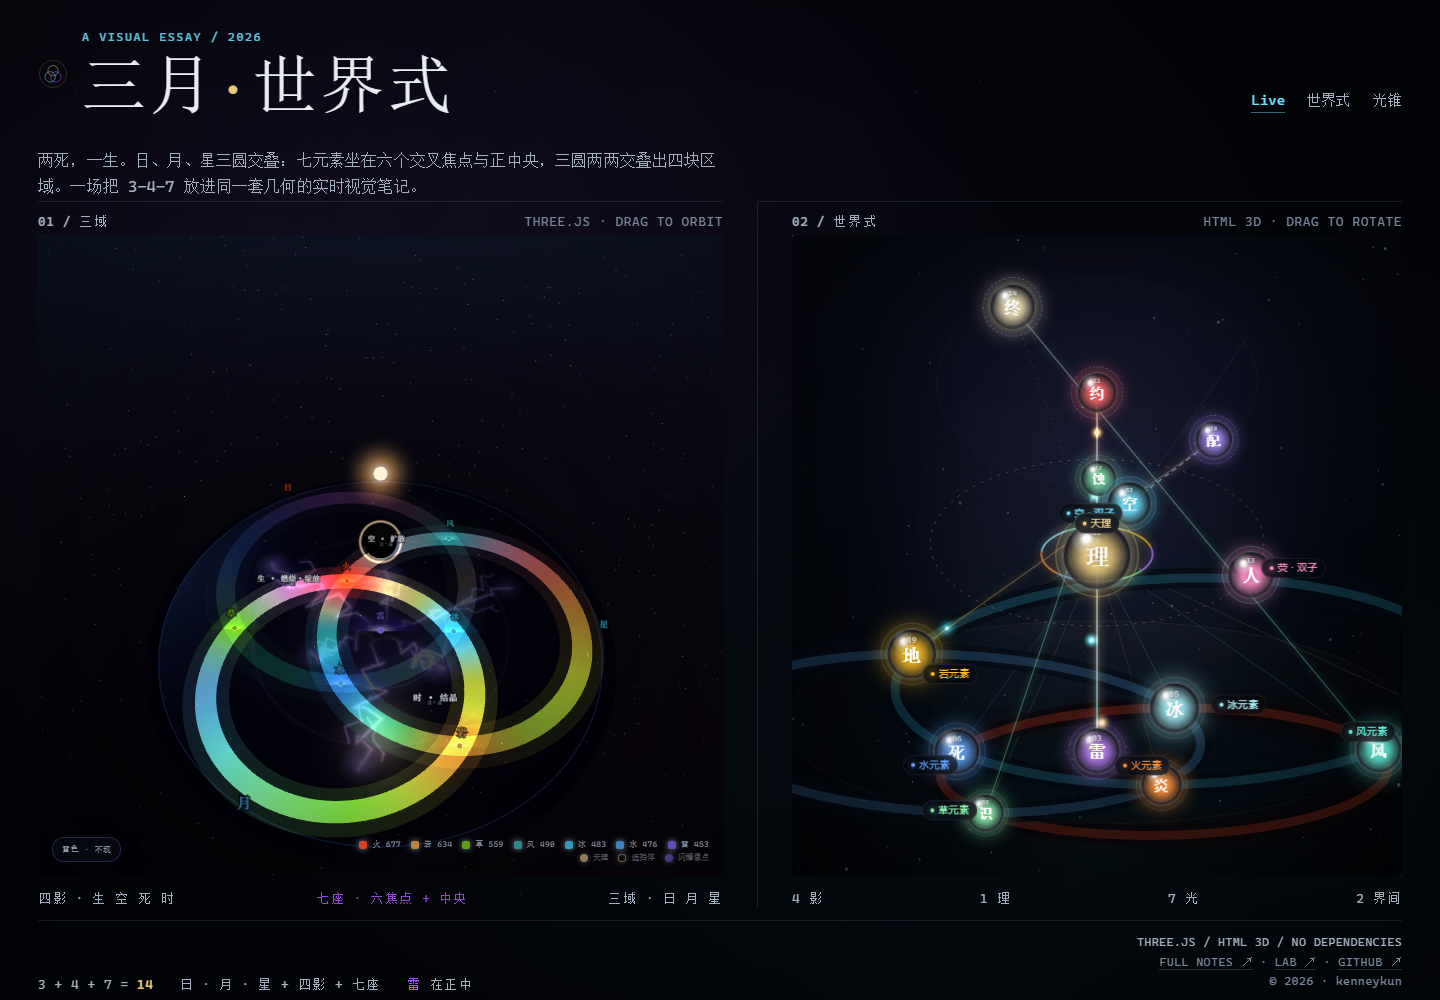
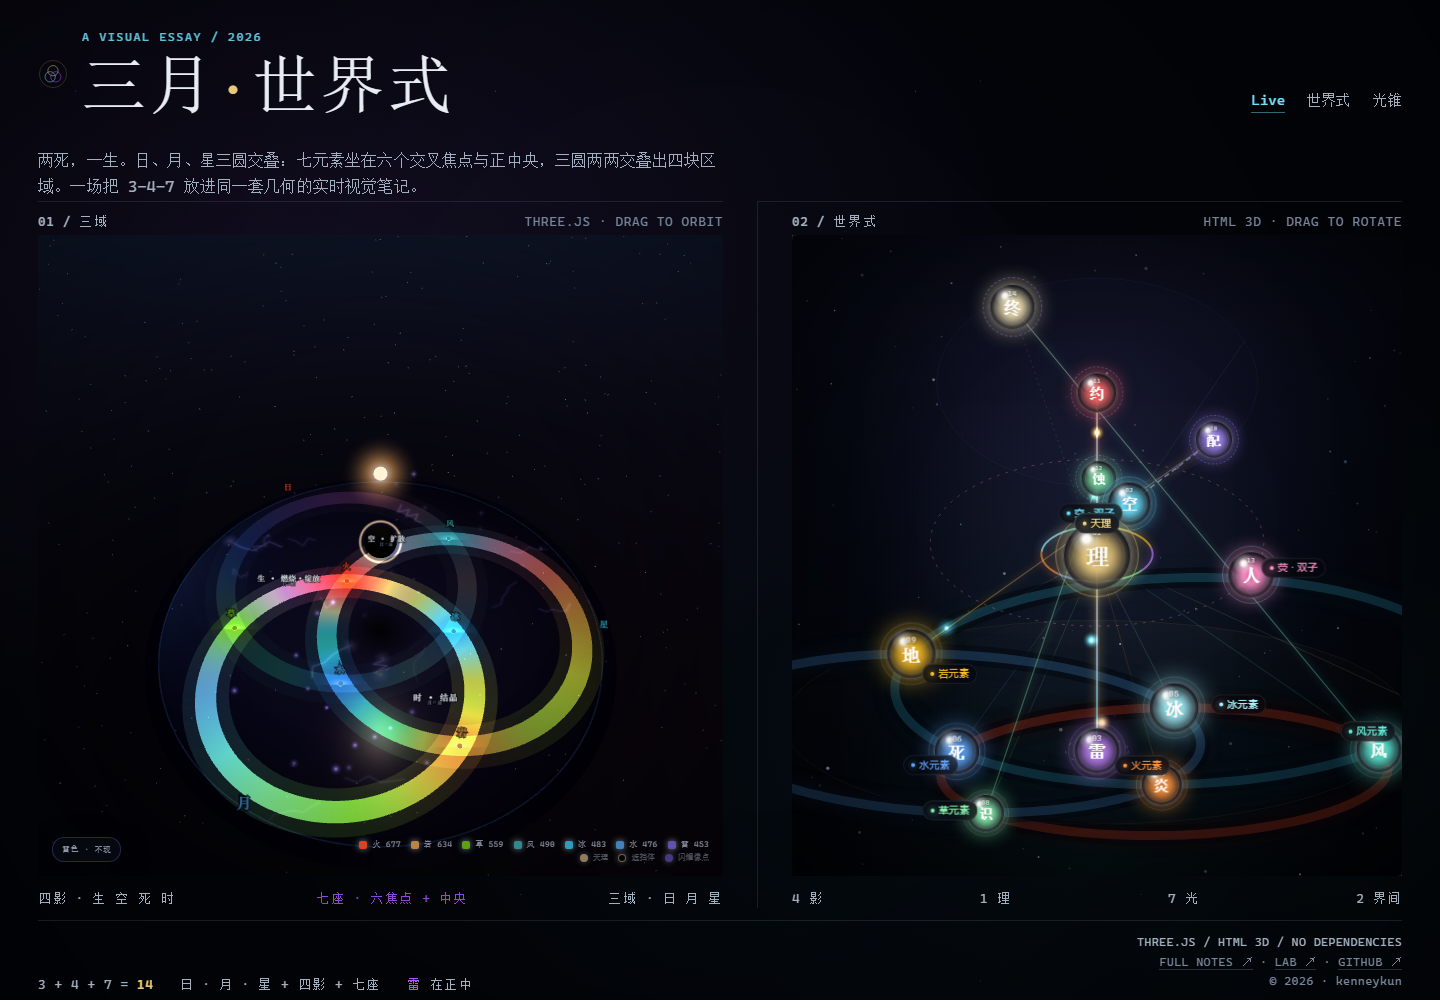
Make the plate a field of static instead of a hub of spokes
Electro does not sit in the middle of anything, so the radial bolts were the wrong metaphor. The centre marker and its label are gone, the six remaining seats keep their focal positions, and the plate now carries ambient static: sixteen short jagged arcs appear at random spots each frame with flicker, occasional spark heads, and a faint charged mist underneath.

Charged motes drift above the plate on slow orbits, brightening and dimming. The sidebar note, HUD line and README all switch from seven seats to six seats plus an electro medium, including the reasoning line: electro reacts with everything, so it is the medium rather than a seat, and eternity being closest to the heavenly principle explains why electro is that medium.

diff --git a/docs/prism_three_planb.html b/docs/prism_three_planb.html
@@ -441,7 +441,7 @@
       <button class="btn" id="reset" type="button">重置视角</button>
     </section>
 
-    <p class="note">三圆 = 日 / 月 / 星三域；七元素各占一个<b>交叉焦点</b>（六边形 60° 一个），<b>雷</b>在正中。<br>四影：<b>生</b> 日∩月 燃烧·绽放 · <b>空</b> 日∩星 扩散 · <b>死</b> 日∩月∩星 超载·感电·超导 · <b>时</b> 月∩星 结晶。</p>
+    <p class="note">三圆 = 日 / 月 / 星三域；六个元素各占一个<b>交叉焦点</b>（六边形 60° 一个）。<b>雷</b>不在座位上——它能和任何元素反应，所以它是<b>盘面本身</b>：一层始终存在的静电。<br>四影：<b>生</b> 日∩月 燃烧·绽放 · <b>空</b> 日∩星 扩散 · <b>死</b> 中央 超载·感电·超导 · <b>时</b> 月∩星 结晶。</p>
 
     <details class="adv">
       <summary>已退役控件</summary>
@@ -4825,34 +4825,15 @@ window.M3 = {
   boltPlate.renderOrder = -3;   // 环和座位都画在它上面，电感从盘底透出来
   scene.add(boltPlate);
 
-  const BOLT_SEATS = SEATS.filter((s) => s.key !== 'thunder');
   let boltClock = -1;
-  function boltPath(g, x1, y1, x2, y2, time, seed, amp, steps, width, alpha) {
-    g.beginPath();
-    g.moveTo(x1, y1);
-    for (let k = 1; k <= steps; k++) {
-      const u = k / steps;
-      const taper = 1 - Math.abs(u - 0.55) * 1.2;
-      const jx = (Math.sin(time * 7.1 + seed * 3.3 + k * 2.1) * 0.6 + Math.sin(time * 13.7 + k * 1.9 + seed)) * amp * taper;
-      const jy = (Math.cos(time * 6.3 + seed * 2.1 + k * 1.7) * 0.6 + Math.cos(time * 11.3 + k * 2.3 + seed)) * amp * taper;
-      g.lineTo(x1 + (x2 - x1) * u + jx, y1 + (y2 - y1) * u + jy);
-    }
-    g.strokeStyle = `rgba(150,120,255,${0.55 * alpha})`;
-    g.lineWidth = width * 2.4;
-    g.shadowColor = 'rgba(130,100,255,.95)';
-    g.shadowBlur = 26;
-    g.stroke();
-    g.strokeStyle = `rgba(196,172,255,${0.88 * alpha})`;
-    g.lineWidth = width;
-    g.shadowBlur = 12;
-    g.stroke();
-    g.strokeStyle = `rgba(244,240,255,${1.0 * alpha})`;
-    g.lineWidth = Math.max(1, width * 0.42);
-    g.shadowBlur = 5;
-    g.stroke();
-  }
 
-  function drawBolts(time) {
+  const hash01 = (n) => {
+    const x = Math.sin(n * 12.9898) * 43758.5453;
+    return x - Math.floor(x);
+  };
+
+  // 全局静电：盘面上随机的短促电弧 + 一层电雾，没有中心、没有放射方向
+  function drawStatic(time) {
     const g = boltCtx;
     const W = boltCanvas.width;
     const cxp = W / 2;
@@ -4862,63 +4843,84 @@ window.M3 = {
     g.lineCap = 'round';
     g.lineJoin = 'round';
 
-    // 中央电场
-    const core = g.createRadialGradient(cxp, cyp, 0, cxp, cyp, rp * 0.5);
-    core.addColorStop(0, 'rgba(172,142,255,0.34)');
-    core.addColorStop(0.34, 'rgba(108,86,200,0.15)');
-    core.addColorStop(1, 'rgba(58,38,116,0)');
-    g.fillStyle = core;
+    // 整体带电的薄雾
+    const wash = g.createRadialGradient(cxp, cyp, rp * 0.12, cxp, cyp, rp);
+    wash.addColorStop(0, 'rgba(112,92,196,0.16)');
+    wash.addColorStop(0.55, 'rgba(96,80,180,0.10)');
+    wash.addColorStop(1, 'rgba(70,56,140,0.02)');
+    g.fillStyle = wash;
     g.beginPath();
-    g.arc(cxp, cyp, rp * 0.5, 0, Math.PI * 2);
+    g.arc(cxp, cyp, rp, 0, Math.PI * 2);
     g.fill();
 
-    // 由中心向外扩散的脉冲环（三道错相）
-    for (let r = 0; r < 3; r++) {
-      const u = (time * 0.34 + r / 3) % 1;
-      const rad = rp * (0.10 + u * 0.86);
-      const a = (1 - u) * 0.26;
+    const slot = Math.floor(time * 9);          // 电弧按 9fps 换位，保留一点粘滞感
+    const ARC_N = 16;
+    for (let i = 0; i < ARC_N; i++) {
+      const s = slot + i * 17.31;
+      const ang = hash01(s * 1.13) * Math.PI * 2;
+      const rr = Math.sqrt(hash01(s * 2.71)) * rp * 0.94;
+      const cx0 = cxp + Math.cos(ang) * rr;
+      const cy0 = cyp + Math.sin(ang) * rr;
+      const len = 16 + hash01(s * 3.37) * 74;
+      const dir = hash01(s * 5.91) * Math.PI * 2;
+      const life = hash01(s * 0.73);
+      const flick = 0.25 + 0.75 * Math.abs(Math.sin(time * 9 + i * 2.1));
+      const alpha = (0.18 + 0.5 * life) * flick;
+      const steps = 4 + Math.floor(hash01(s * 7.7) * 3);
+
       g.beginPath();
-      g.arc(cxp, cyp, rad, 0, Math.PI * 2);
-      g.strokeStyle = `rgba(168,140,255,${a * 1.5})`;
-      g.lineWidth = 2 + (1 - u) * 3;
-      g.shadowColor = 'rgba(130,100,255,.85)';
-      g.shadowBlur = 22;
-      g.stroke();
-    }
-
-    BOLT_SEATS.forEach((s, i) => {
-      const flick = 0.45 + 0.55 * Math.abs(Math.sin(time * (1.6 + i * 0.41) + i * 1.7));
-      const x2 = cxp + (s.x * S / 3.32) * (W / 2) * 0.99;
-      const y2 = cyp + (-s.z * S / 3.32) * (W / 2) * 0.99;
-      const seed = i * 1.37;
-
-      // 主弧
-      boltPath(g, cxp, cyp, x2, y2, time, seed, 16, 14, 3.4, flick);
-
-      // 两条分叉（在远端 55%–90% 处岔开）
-      for (let f = 0; f < 2; f++) {
-        const t0 = 0.52 + f * 0.16;
-        const bx = cxp + (x2 - cxp) * t0;
-        const by = cyp + (y2 - cyp) * t0;
-        const ang = Math.atan2(y2 - cyp, x2 - cxp) + (f === 0 ? 0.42 : -0.46) + Math.sin(time * 3 + i + f) * 0.12;
-        const len = Math.hypot(x2 - cxp, y2 - cyp) * (0.30 + 0.08 * Math.sin(time * 2.4 + f));
-        const ex = bx + Math.cos(ang) * len;
-        const ey = by + Math.sin(ang) * len;
-        boltPath(g, bx, by, ex, ey, time + f, seed + f * 2.3, 9, 7, 1.9, flick * 0.75);
+      g.moveTo(cx0, cy0);
+      let px = cx0;
+      let py = cy0;
+      for (let k = 1; k <= steps; k++) {
+        const u = k / steps;
+        const wob = (hash01(s + k * 4.1) - 0.5) * 26;
+        const nx = Math.cos(dir) * len * u - Math.sin(dir) * wob;
+        const ny = Math.sin(dir) * len * u + Math.cos(dir) * wob;
+        px = cx0 + nx;
+        py = cy0 + ny;
+        g.lineTo(px, py);
       }
+      g.strokeStyle = `rgba(146,120,240,${alpha * 0.55})`;
+      g.lineWidth = 5.2;
+      g.shadowColor = 'rgba(130,104,255,.9)';
+      g.shadowBlur = 20;
+      g.stroke();
+      g.strokeStyle = `rgba(206,188,255,${alpha})`;
+      g.lineWidth = 2.0;
+      g.shadowBlur = 8;
+      g.stroke();
+      g.strokeStyle = `rgba(246,242,255,${alpha * 0.9})`;
+      g.lineWidth = 0.9;
+      g.shadowBlur = 3;
+      g.stroke();
 
-      // 座位处的电晕
-      const halo = g.createRadialGradient(x2, y2, 0, x2, y2, 22 + 10 * flick);
-      halo.addColorStop(0, `rgba(226,214,255,${0.55 * flick})`);
-      halo.addColorStop(0.45, `rgba(168,140,255,${0.26 * flick})`);
-      halo.addColorStop(1, 'rgba(120,96,210,0)');
-      g.fillStyle = halo;
-      g.beginPath();
-      g.arc(x2, y2, 22 + 10 * flick, 0, Math.PI * 2);
-      g.fill();
-    });
-
+      // 弧端的一点火星
+      if (life > 0.62) {
+        const spark = g.createRadialGradient(px, py, 0, px, py, 9 + 7 * life);
+        spark.addColorStop(0, `rgba(232,222,255,${alpha * 0.9})`);
+        spark.addColorStop(1, 'rgba(150,124,240,0)');
+        g.fillStyle = spark;
+        g.beginPath();
+        g.arc(px, py, 9 + 7 * life, 0, Math.PI * 2);
+        g.fill();
+      }
+    }
     boltTex.needsUpdate = true;
+  }
+  /* 带电荷的粒子：在盘面上方缓慢漂浮，忽明忽暗 */
+  const moteGroup = new M.Group();
+  scene.add(moteGroup);
+  const motes = [];
+  for (let i = 0; i < 28; i++) {
+    const sp = glowSprite('#bda6ff', 0.09 + Math.random() * 0.09, 0.55);
+    const a = Math.random() * Math.PI * 2;
+    const r = Math.sqrt(Math.random()) * 3.05;
+    const y = PLANE_Y + 0.05 + Math.random() * 0.5;
+    sp.position.set(Math.cos(a) * r, y, Math.sin(a) * r);
+    sp.userData = { a, r, y, base: 0.35 + Math.random() * 0.5, speed: 0.12 + Math.random() * 0.22, ph: Math.random() * 6.283 };
+    moteGroup.add(sp);
+    motes.push(sp);
   }
   // 日食在底色盘上投下的暗斑（半径由阴影锥决定）
   const shadowBlob = new M.Mesh(
@@ -5205,7 +5207,7 @@ window.M3 = {
   }
   function buildSeats() {
     disposeGroup(seatGroup);
-    SEATS.forEach((s) => {
+    SEATS.filter((s) => s.key !== 'thunder').forEach((s) => {
       const x = s.x * S;
       const z = -s.z * S;
       const color = palette()[s.key];
@@ -5515,7 +5517,7 @@ window.M3 = {
 
   function updateThunder() {
     if (!nodeViews.length) {
-      if (hudStateEl) hudStateEl.textContent = '三域 · 七座 · 四影';
+      if (hudStateEl) hudStateEl.textContent = '三域 · 六座 + 电盘 · 四影';
       if (hudInfoEl) hudInfoEl.textContent = `活域：${state.aliveDomain === 'moon' ? '月' : state.aliveDomain === 'sun' ? '日' : '星'} · 两死一生`;
       return;
     }
@@ -5791,7 +5793,18 @@ window.M3 = {
 
     if (clock.elapsedTime - boltClock > 0.06) {
       boltClock = clock.elapsedTime;
-      drawBolts(clock.elapsedTime);
+      drawStatic(clock.elapsedTime);
+    }
+
+    const et = clock.elapsedTime;
+    for (let i = 0; i < motes.length; i++) {
+      const sp = motes[i];
+      const d = sp.userData;
+      d.a += dt * d.speed;
+      sp.position.x = Math.cos(d.a) * d.r;
+      sp.position.z = Math.sin(d.a) * d.r;
+      sp.position.y = d.y + Math.sin(et * 0.9 + d.ph) * 0.06;
+      sp.material.opacity = d.base * (0.35 + 0.65 * Math.abs(Math.sin(et * 1.6 + d.ph)));
     }
 
     renderer.render(scene, camera);

diff --git a/docs/index.html b/docs/index.html
@@ -179,7 +179,7 @@
     <section class="figure">
       <div class="fig-head"><b>01 / 三域</b><span>Three.js · drag to orbit</span></div>
       <div class="frame-wrap">
-        <iframe src="prism_three_planb.html?visual=1&v=domain7" title="三域结构：日 / 月 / 星三圆、七元素座位与四影交叠" loading="eager" scrolling="no"></iframe>
+        <iframe src="prism_three_planb.html?visual=1&v=domain8" title="三域结构：日 / 月 / 星三圆、七元素座位与四影交叠" loading="eager" scrolling="no"></iframe>
       </div>
       <div class="fig-foot">
         <span>四影 · 生 空 死 时</span>
@@ -191,7 +191,7 @@
     <section class="figure tree">
       <div class="fig-head"><b>02 / 世界式</b><span>HTML 3D · drag to rotate</span></div>
       <div class="frame-wrap">
-        <iframe src="world_formula.html?embed=1&v=domain7" title="世界式十四节点立体图" loading="eager" scrolling="no"></iframe>
+        <iframe src="world_formula.html?embed=1&v=domain8" title="世界式十四节点立体图" loading="eager" scrolling="no"></iframe>
       </div>
       <div class="fig-foot">
         <span>4 影</span>

diff --git a/README.md b/README.md
@@ -1,6 +1,6 @@
 # 三月 · 三域
 
-> 两死，一生。日、月、星三圆交叠；七元素各坐一个交叉焦点，雷在正中。
+> 两死，一生。日、月、星三圆交叠；六元素坐在交叉焦点上，雷不占座位——它是盘面本身。
 
 **线上站：[kenneykun.github.io/genshin347puzzle](https://kenneykun.github.io/genshin347puzzle/)**
 
@@ -8,7 +8,7 @@
 
 - **3** —— 三条域圆：**日 / 月 / 星**
 - **4** —— 四块交叠区，读作 **四影**：生 / 空 / 死 / 时
-- **7** —— 七个元素座位，坐在六个**交叉焦点**与正中央
+- **7** —— 七个元素：六个坐在**交叉焦点**上，雷不占座位，它是盘面本身
 
 ```text
 3 + 4 + 7 = 14
@@ -21,7 +21,7 @@
 左侧是一台可以转的几何装置（Three.js），右侧是同一套几何的节点化读法（纯 Canvas / DOM，无依赖）。
 
 - 三条圆 = 日 / 月 / 星三域，每条圆扫过一整圈色相，交叉处加法叠加出第三种颜色；
-- 七个元素坐在**圆与圆的交叉焦点**上，六个焦点围成六边形，雷在正中；
+- 六个元素坐在**圆与圆的交叉焦点**上，围成六边形；雷不占座位，它是整块盘面的静电；
 - 三条圆两两交叠加中央三重交叠，正好**四块透镜区**，对应四族反应，读作四影；
 - 「两死一生」落在三域的亮度上：三域里只有一域活着，其余压暗（默认月域，可切换）。
 
@@ -49,7 +49,7 @@
 
 六个交叉焦点每隔 60° 一个，且**交替落在内圈与外圈**：三个在 r = 3.5（正好是两个月亮的圆心），三个在 R = 7（外三角）。
 
-## 七座：元素坐在焦点上
+## 座位：元素坐在焦点上，雷是盘面
 
 从正上方顺时针：
 
@@ -61,11 +61,11 @@
 | 岩 | (0, −7) | 7 | 月、星 |
 | 水 | (−3.03, −1.75) | 3.5 | 日、月 |
 | 草 | (−6.06, 3.5) | 7 | 日、星 |
-| **雷** | (0, 0) | 0 | **三元交叠（中心）** |
+| 雷 | — | — | **不占座位：它是盘面本身** |
 
 每条圆正好压着四个座位，于是每条圆可以用这四个座位的元素色做色锚：环上是一圈连续光谱，座位附近被拉回该元素的色调。
 
-> **雷在中心**的理由是设定而非推导：永恒最接近天理，而雷神坚守永恒。天理（点光源）压在中央轴线的正上方，雷是所有座位里离它最近的那个。
+> **雷不占座位**：它能和任何元素反应，所以在图上它不是第七个点，而是**整块盘面的性质**——底盘是一张始终带电的雷电盘，静电弧在盘面上随机闪现、电荷粒子在盘面之上漂浮。永恒最接近天理，而雷神坚守永恒；这条设定解释了为什么雷是"介质"而不是"座位"。
 
 ## 四影：元素在哪里相遇
 
@@ -73,7 +73,7 @@
 |---|---|---|
 | 日 ∩ 月 | **生** | 燃烧 · 绽放 |
 | 日 ∩ 星 | **空** | 扩散 |
-| 日 ∩ 月 ∩ 星（中央） | **死** | 超载 · 感电 · 超导 |
+| 日 ∩ 月 ∩ 星（中央区） | **死** | 超载 · 感电 · 超导 |
 | 月 ∩ 星 | **时** | 结晶 |
 
 「四影 = 四块交叠区」是这张图的读法，不是官方设定；它的好处是让 14 这个数在几何里有了第二处落点：
@@ -113,7 +113,7 @@
 ### 左侧：三域装置（`docs/prism_three_planb.html`）
 
 - 三条域圆，各自一圈连续色相，交叉处叠加混色；
-- 七个元素座位（色锚 + 标签），雷在正中；
+- 六个元素座位（色锚 + 标签），围成六边形；雷不占座位，是盘面上的全局静电与带电粒子；
 - 四块交叠区标出影名与反应族；
 - 顶部天理点光源 + 遮挡体（日食）；
 - **可折叠侧栏**：光源（天理高度 / 遮挡半径）、活域（日 / 月 / 星）、配色、显示（标签 / 日食）、自动旋转 / 重置视角；
